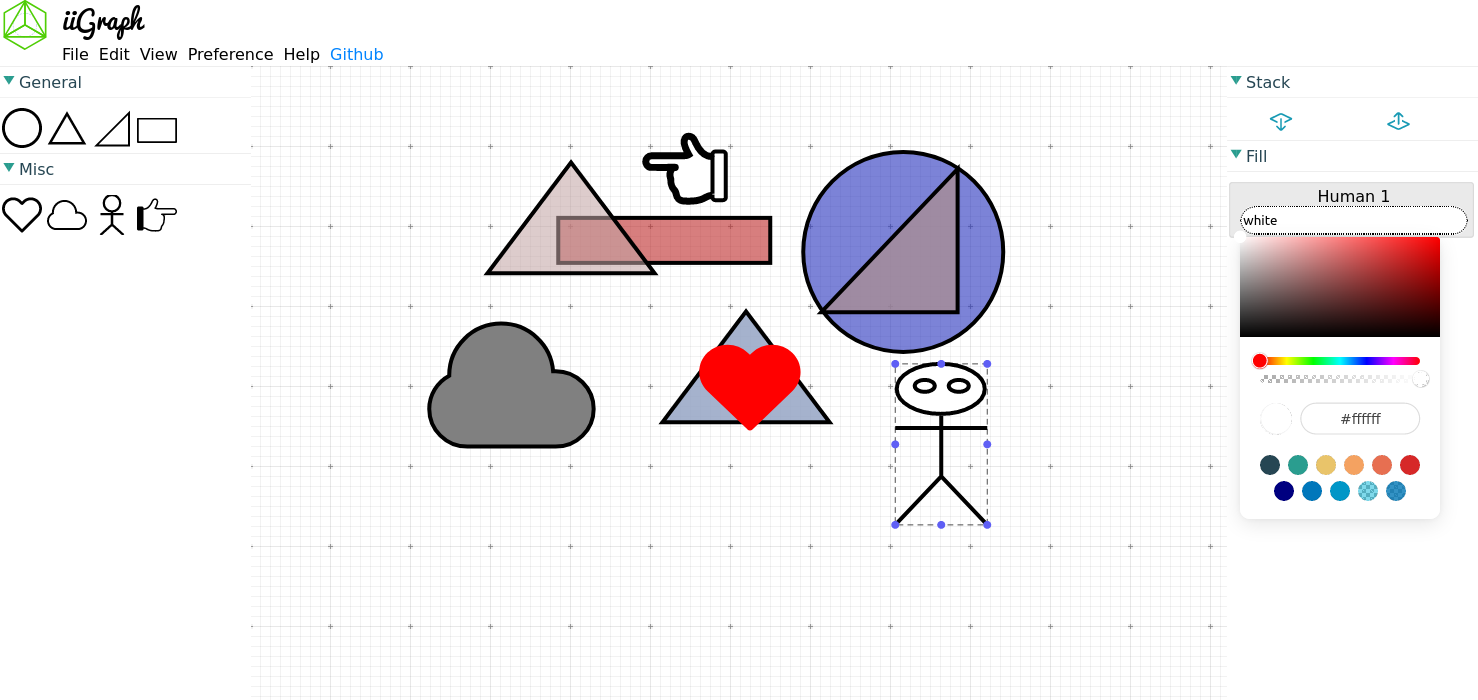
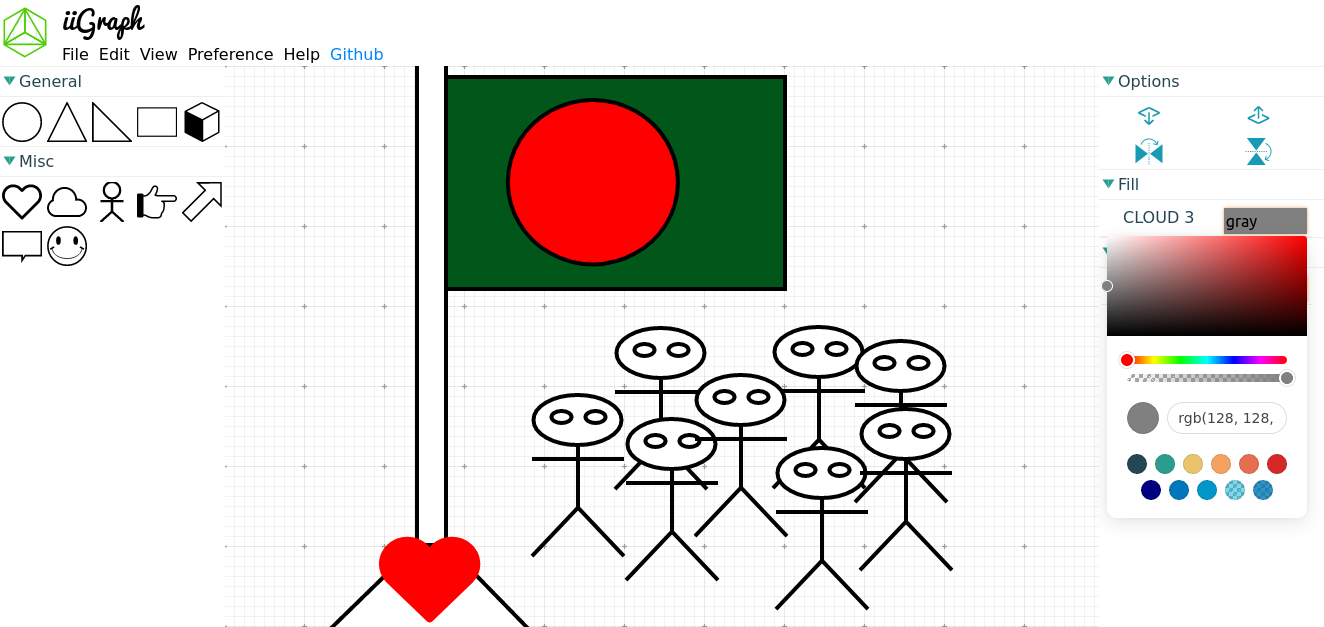
rotation center added; bug fixes; minor style changed

diff --git a/src/lib/Adapters/HandleManager.js b/src/lib/Adapters/HandleManager.js
@@ -61,10 +61,11 @@ class HandleManager{
 
         this.rotator=[rhandle,center];
         $(center).on("drag",function(e){
-            let dx=e.difference.x;
-            let dy=e.difference.y;
-            center.setAttribute("cx",center.getAttribute("cx")-dx);
-            center.setAttribute("cy",center.getAttribute("cy")-dy);
+            let dx=center.getAttribute("cx")-e.difference.x;
+            let dy=center.getAttribute("cy")-e.difference.y;
+            if(isNaN(dx)||isNaN(dy)) return;
+            center.setAttribute("cx",dx);
+            center.setAttribute("cy",dy);
         });
 
         let handSize=function(x,y,px,py){
@@ -75,6 +76,7 @@ class HandleManager{
             let sp = undefined, mp = undefined;
             mp = {x:center.getAttribute("cx")*1,y:center.getAttribute("cy")*1};
             sp = {x:rhandle.getAttribute("cx")*1,y:rhandle.getAttribute("cy")};
+            if(!e.mousemove) return;
             var p = {x:e.mousemove.layerX, y:e.mousemove.layerY};
             var sAngle = Math.atan2((sp.y-mp.y),(sp.x - mp.x));
             var pAngle = Math.atan2((p.y-mp.y),(p.x - mp.x));        
@@ -90,6 +92,7 @@ class HandleManager{
                 ref.shape.callEvents("before-rotate",e);
                 st=1;
             }
+            e.middle=mp;
             ref.shape.callEvents("do-rotate",e);
             if(e.mouseup){
                 ref.shape.callEvents("after-rotate",e);
@@ -104,16 +107,17 @@ class HandleManager{
         this.shape.addParameter("r",5,rhandle);
         this.shape.addParameter("data-handleid","rotate_handle",rhandle);  
 
-        this.shape.addParameter("stroke",5,center);
         this.shape.addParameter("r",5,center);
-        this.shape.addParameter("data-handleid","center_control",center);  
-
+        this.shape.addParameter("data-handleid","center_control",center); 
+        this.shape.addParameter("class","center-control",center); 
+ 
+        this.shape.addParameter("class","rotate-circle",rhandle);  
         this.shape.addParameter("cx",x+10,rhandle);
         this.shape.addParameter("cy",y-10,rhandle);
         this.shape.addParameter("cx",cx,center);
         this.shape.addParameter("cy",cy,center);
 
-        return [this.rotator[0]];
+        return this.rotator;
     }
     createHandleCircle(cx,cy,id){
         let ref=this;

diff --git a/src/lib/Shapes/Face.js b/src/lib/Shapes/Face.js
@@ -1,0 +1,23 @@
+class Face extends Path{
+    constructor(canvas){
+        super(canvas);
+        this.createFace();
+    }
+    createFace(){
+        this.addPath("M351,163.5a59,58.5,0,1,0,118,0a59,58.5,0,1,0,-118,0");
+        this.fill("white",0);
+        this.addPath("M364.24439834024844,169.47136929460595C364.24439834024844,180.986887966805,372.96464730290467,191.6285477178419,387.124647302905,197.38630705394195C401.27975103734457,203.1440663900413,418.7202489626558,203.1440663900413,432.87535269709565,197.38630705394195C447.0353526970961,191.6285477178419,455.7556016597513,180.986887966805,455.7556016597513,169.47136929460595");
+        this.fill("none",1);
+        this.addPath("M370.2668049792536,165.8885477178422L358.2268879668054,173.04933609958488");
+        this.fill("black",2);
+        this.addPath("M449.7331950207472,165.8885477178422L461.77311203319437,173.04933609958488");
+        this.fill("black",3);
+        this.addPath("M379.89893443983476,146.78502074688805a3.612268879668048,9.551035269709553,0,1,0,7.2244887966804905,0a3.612268879668048,9.551035269709553,0,1,0,-7.2244887966804905,0");
+        this.fill("black",4);
+        this.addPath("M432.87652780082936,146.78502074688805a3.612268879668048,9.551035269709553,0,1,0,7.2244887966804905,0a3.612268879668048,9.551035269709553,0,1,0,-7.2244887966804905,0");
+        this.fill("black",5);
+
+        this.stroke("black");
+        this.strokeWidth(4);
+    }
+}

diff --git a/index.html b/index.html
@@ -52,7 +52,7 @@
                     <input type="image" name="finger" src="ui/icons/finger.svg" class="shape-icon"/>
                     <input type="image" name="arrow" src="ui/icons/arrow.svg" class="shape-icon"/>
                     <input type="image" name="comment" src="ui/icons/comment.svg" class="shape-icon"/>
-                    <input type="image" name="smily" src="ui/icons/smile.svg" class="shape-icon"/>
+                    <input type="image" name="face" src="ui/icons/smile.svg" class="shape-icon"/>
                     </div>
                 </div>
             </div>
@@ -103,6 +103,7 @@
     <script type="text/javascript" src="3rd-party/svg-path-commander.min.js"></script>
     <script type="text/javascript" src="src/lib/Path.js"></script>
     <script type="text/javascript" src="src/lib/Shapes/Circle.js"></script>
+    <script type="text/javascript" src="src/lib/Shapes/Face.js"></script>
     <script type="text/javascript" src="src/lib/Shapes/Heart.js"></script>
     <script type="text/javascript" src="src/lib/Shapes/Human.js"></script>
     <script type="text/javascript" src="src/lib/Shapes/Cloud.js"></script>

diff --git a/src/lib/MouseActionManager/iimice.js b/src/lib/MouseActionManager/iimice.js
@@ -86,6 +86,8 @@ class iimise{
 
             let sx=mousedown.clientX;
             let sy=mousedown.clientY;
+            let currentCursor=window.getComputedStyle(mousedown.target)["cursor"];
+            document.body.style.cursor=currentCursor;
             let mouseMoveHandler=function(mousemove){
                 dragEvent["difference"]={"x":sx-mousemove.clientX,"y":sy-mousemove.clientY};
                 sx=mousemove.clientX;
@@ -100,6 +102,7 @@ class iimise{
                 wmv.unset("mousemove",mouseMoveHandler,flag);
                 wmv.unset("mouseup",mouseUpHandler,flag);
                 dragEvent["mouseup"]=mouseup;
+                document.body.style.cursor="default";
                 functionName(dragEvent);
             }
 

diff --git a/ui/css/main.css b/ui/css/main.css
@@ -2,6 +2,7 @@
     --sidebar_width: 17%;
     --navigationbar_height: 66px;
     --move_icon: url(icons/move.png);
+    --rotate_icon: url(icons/rotate.png);
     --label: #264653;
     --links: #189ab4;
     --icons: #2a9d8f;
@@ -198,6 +199,15 @@ animation-iteration-count: infinite;
 .handle-circle:hover,.handle-circle-hover{
     fill: blue;
     r:7px;
+}
+.rotate-circle{
+    cursor:var(--rotate_icon) 14 14,auto;
+}
+.center-control{
+    cursor: crosshair;
+    fill: black;
+    stroke-width: 4;
+    stroke: red;
 }
 .shape{
     cursor: var(--move_icon) 14 14,auto;

diff --git a/src/lib/Path.js b/src/lib/Path.js
@@ -306,7 +306,7 @@ class Path{
         this.path.map(function(shape,idx){
             let d=shape.getAttribute("d");
             let sd=ref.scale(dx,dy,d,handle,idx);
-            if(sd==false ||!willUpdate||sd.match(NaN)!=null||sd.match(Infinity)!=null) {willUpdate=false;return;}
+            if(sd==false ||!willUpdate||sd.match(NaN)!=null||sd.match(Infinity)!=null) {willUpdate=false;return false;}
             allD.push(sd);
         });
         if(willUpdate){

diff --git a/src/lib/Adapters/ShapeEventManager.js b/src/lib/Adapters/ShapeEventManager.js
@@ -67,7 +67,7 @@ class ShapeEventManager{
         });
 
         $(this.shape).on("do-rotate",function(shape,e){
-            ref.shape.rotateAll(e.theta);
+            ref.shape.rotateAll(e.theta,e.middle);
         });
         $(this.shape).on("before-rotate",function(shape,e){
             ref.shape.setMainOrigin(false);

diff --git a/src/lib/Factory.js b/src/lib/Factory.js
@@ -73,6 +73,9 @@ class Factory{
             case "cube":
                 shape=new Cube(this.canvas);
             break;
+            case "face":
+                shape=new Face(this.canvas);
+            break;
         }
         shape.addFactory(this);
         let ref=this;
